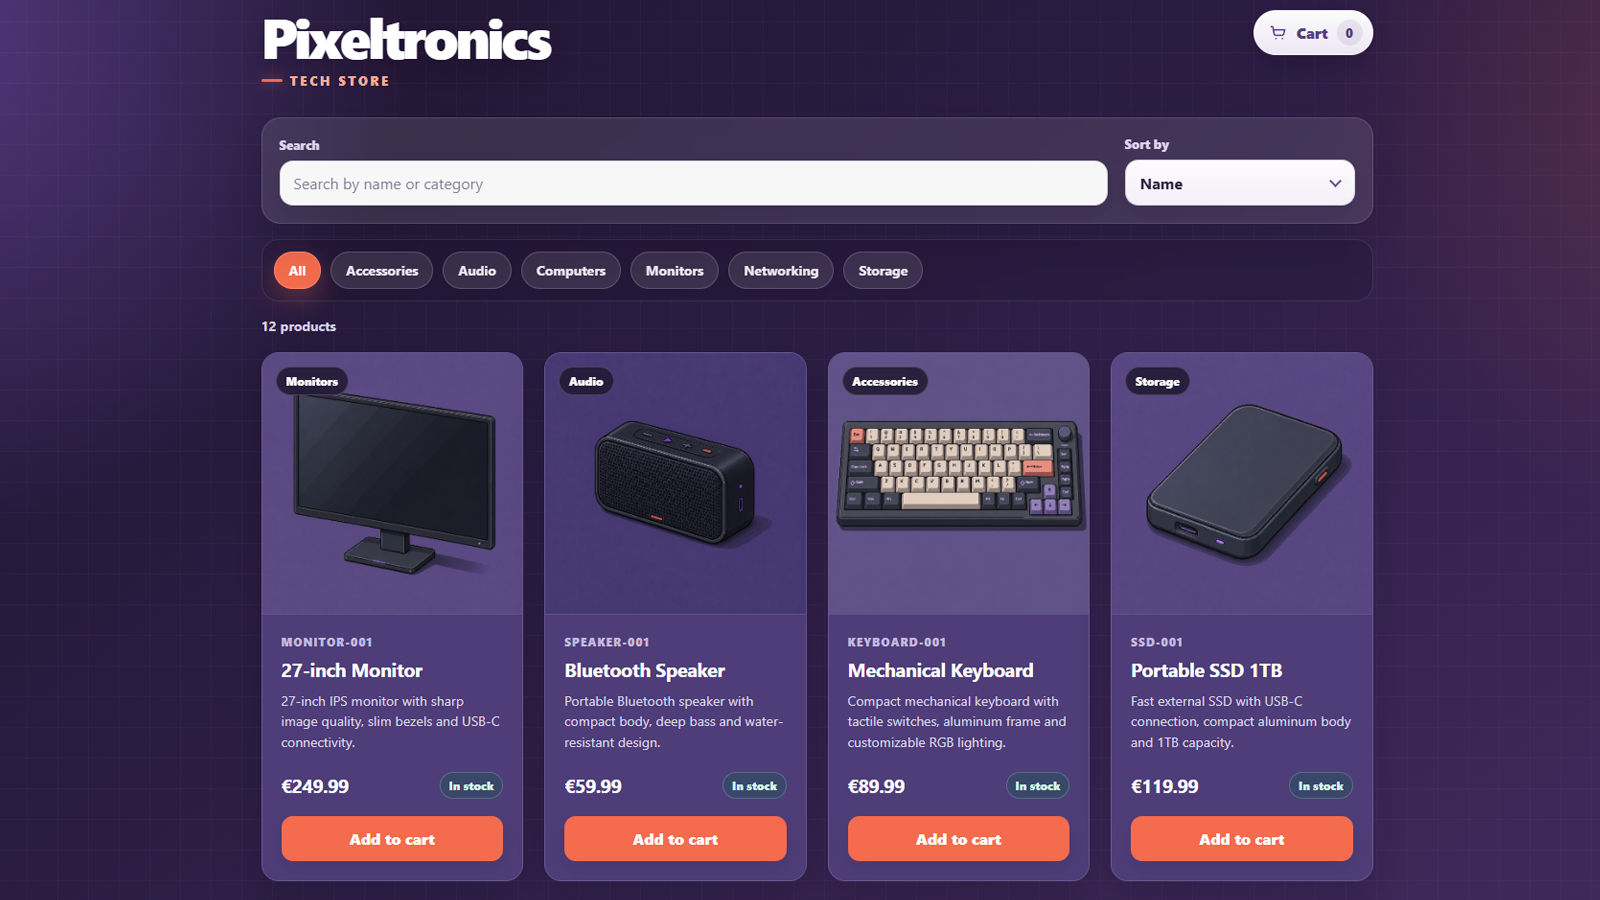
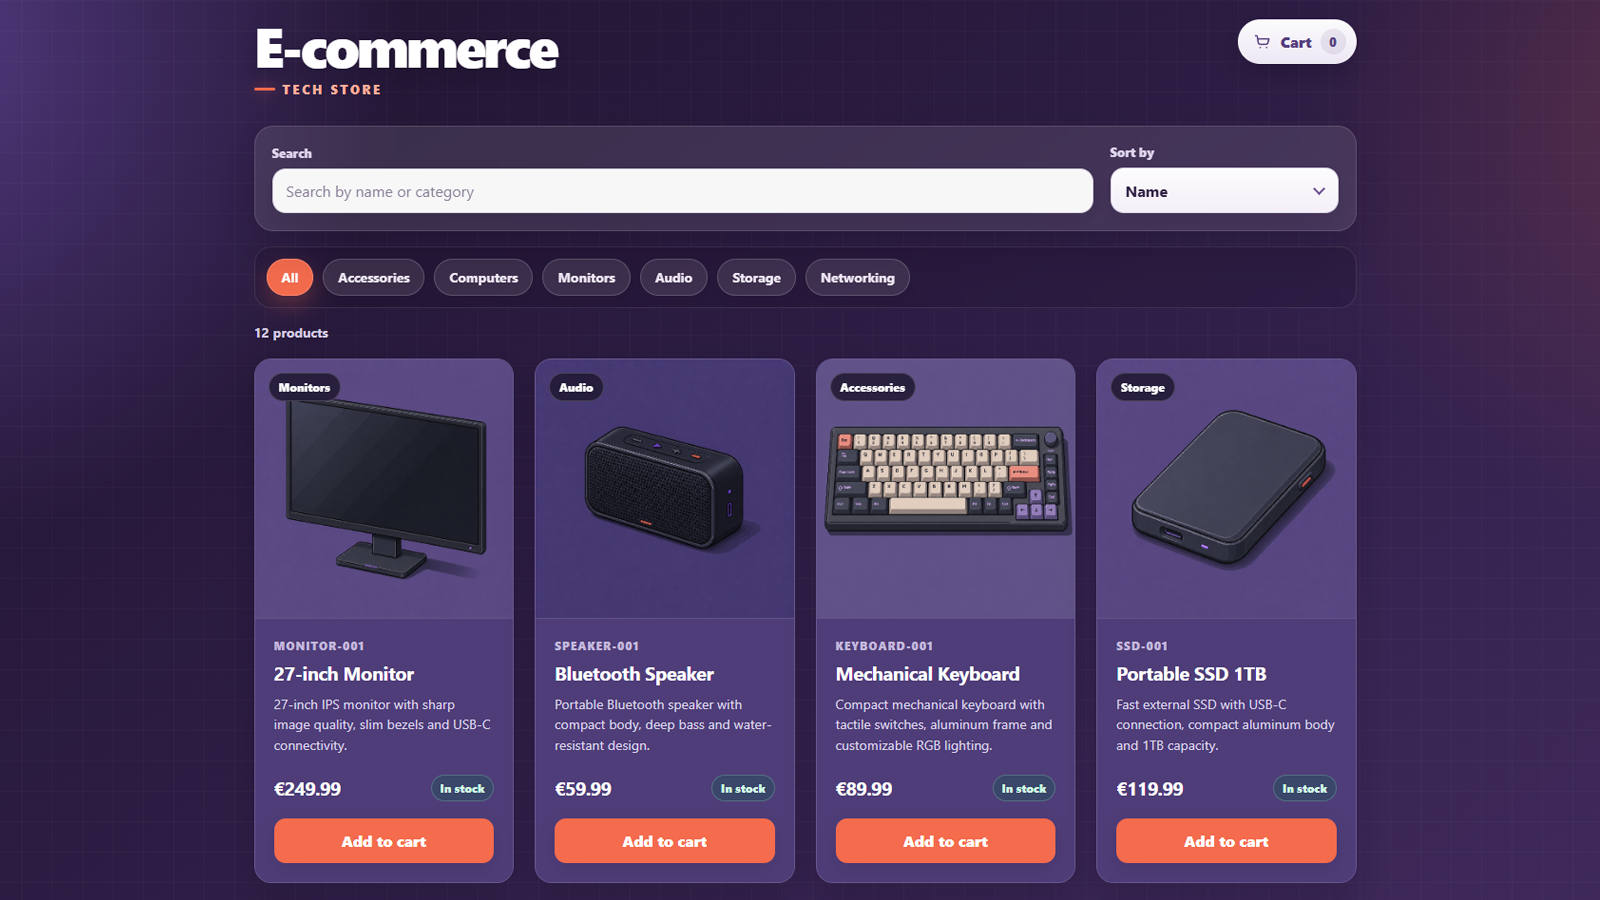
Updated README

Changed region(s): [[0.1562, 0.0, 0.875, 0.9956], [0.75, 0.0, 0.875, 0.0933]]

diff --git a/README.md b/README.md
@@ -2,7 +2,9 @@
 
 Full-stack e-commerce portfolio project built with **Angular 21**, **Spring Boot 4.1**, **Java 21** and **PostgreSQL**.
 
-This e-commerce implements a complete catalog-to-order flow: products are loaded from a REST API, the cart is persisted in the browser, checkout data is validated, and orders are created transactionally in PostgreSQL while product stock is updated.
+The application implements a complete catalog-to-order flow: product browsing, search and filtering, a persistent shopping cart, validated checkout, transactional order creation and stock updates.
+
+[View Live Demo](https://ecommerce-pablov.vercel.app/products)
 
 ![Product catalog](docs/screenshots/pixeltronics-1.png)
 
@@ -10,7 +12,8 @@ This e-commerce implements a complete catalog-to-order flow: products are loaded
 
 ### Product catalog
 
-- Product data loaded from the Spring Boot API.
+- Product catalog loaded from the Spring Boot REST API in full-stack mode.
+- Seeded product catalog available in frontend demo mode.
 - Search by product name or category.
 - Category filtering.
 - Custom sorting by name and price.
@@ -24,7 +27,7 @@ This e-commerce implements a complete catalog-to-order flow: products are loaded
 - Remove individual items or clear the cart.
 - Prevent quantities from exceeding available stock.
 - Persist cart state in `localStorage`.
-- Synchronize persisted cart data with the current backend catalog.
+- Synchronize persisted cart data with the current product catalog.
 
 ### Checkout
 
@@ -32,11 +35,11 @@ This e-commerce implements a complete catalog-to-order flow: products are loaded
 - User-friendly validation for name, email and shipping address.
 - Inline validation messages and accessible invalid-field states.
 - Order summary with quantities and calculated total.
-- Error feedback when the backend cannot create the order.
+- Error feedback when an order cannot be created.
 
 ### Order processing
 
-`POST /api/orders` performs the complete order workflow inside a transaction:
+In full-stack mode, `POST /api/orders` performs the complete order workflow inside a database transaction:
 
 1. Validates the request body.
 2. Loads and validates every requested product.
@@ -47,12 +50,21 @@ This e-commerce implements a complete catalog-to-order flow: products are loaded
 7. Decreases product stock.
 8. Returns the created order with HTTP `201 Created`.
 
+Frontend demo mode reproduces the same user-facing flow locally:
+
+1. Validates the requested products and quantities.
+2. Checks the locally available stock.
+3. Calculates line totals and the final order total.
+4. Generates an order number and confirmation.
+5. Decreases the locally stored product stock.
+6. Preserves demo data in browser storage.
+
 ### API documentation
 
 - OpenAPI specification generated with Springdoc.
 - Interactive Swagger UI.
 - Documented request schemas, response schemas and HTTP status codes.
-- Executable API requests from the browser.
+- Executable API requests from the browser while the backend is running.
 
 ## Application Flow
 
@@ -90,6 +102,9 @@ This e-commerce implements a complete catalog-to-order flow: products are loaded
 - Angular Router
 - SCSS
 - Browser `localStorage`
+- Browser `sessionStorage`
+- Environment-based execution modes
+- Vercel
 
 ### Backend
 
@@ -114,6 +129,61 @@ This e-commerce implements a complete catalog-to-order flow: products are loaded
 - Docker Compose
 - GitHub Actions
 - npm
+
+## Execution Modes
+
+The frontend supports two execution modes.
+
+### Full-stack mode
+
+The standard local development configuration connects Angular to the Spring Boot API and PostgreSQL database.
+
+```text
+Angular application
+        |
+        | HTTP / JSON
+        v
+Spring Boot REST API
+        |
+        | JPA / Hibernate
+        v
+PostgreSQL
+```
+
+This mode provides:
+
+- Real REST API communication.
+- Database-backed product and order persistence.
+- Transactional order creation.
+- Relational order and order-item storage.
+- Persistent stock updates.
+- Swagger and OpenAPI documentation.
+
+### Frontend demo mode
+
+The public Vercel deployment uses the Angular frontend without requiring a permanently hosted Java backend.
+
+```text
+Angular application
+        |
+        v
+DemoStore
+        |
+        v
+localStorage / sessionStorage
+```
+
+This mode provides:
+
+- Seeded product and category data.
+- Product search, filtering and sorting.
+- Persistent shopping cart.
+- Stock validation.
+- Local stock updates.
+- Checkout validation.
+- Order total calculation.
+- Order-number generation.
+- Order confirmation after navigation or page reload.
 
 ## Architecture
 
@@ -140,24 +210,13 @@ checkout/
 order-confirmation/
 ```
 
-State is handled through injectable signal-based stores:
+State and data access are separated into focused services:
 
 - `CartStore` manages cart state and `localStorage` persistence.
-- `OrderStore` keeps the latest order response available for the confirmation route.
-
-High-level flow:
-
-```text
-Angular application
-        |
-        | HTTP / JSON
-        v
-Spring Boot REST API
-        |
-        | JPA / Hibernate
-        v
-PostgreSQL
-```
+- `OrderStore` keeps the latest order response available and temporarily persists it in `sessionStorage`.
+- `CatalogApi` loads products and categories from either the backend or the demo store.
+- `OrderApi` creates orders through either the REST API or the demo store.
+- `DemoStore` reproduces catalog, stock and order behavior for the frontend-only deployment.
 
 Additional architecture notes are available in [`docs/architecture.md`](docs/architecture.md).
 
@@ -266,9 +325,29 @@ ecommerce-angular-springboot/
 │   ├── public/
 │   │   └── assets/products/
 │   ├── src/
-│   │   └── app/features/catalog/
+│   │   ├── app/
+│   │   │   └── features/catalog/
+│   │   │       ├── data/
+│   │   │       │   ├── catalog-api.ts
+│   │   │       │   ├── demo-data.ts
+│   │   │       │   ├── demo-store.ts
+│   │   │       │   ├── order-api.ts
+│   │   │       │   └── order-store.ts
+│   │   │       ├── models/
+│   │   │       │   └── order.ts
+│   │   │       ├── add-to-cart-confirmation/
+│   │   │       ├── cart-drawer/
+│   │   │       ├── checkout/
+│   │   │       ├── order-confirmation/
+│   │   │       ├── product-card/
+│   │   │       └── product-catalog/
+│   │   └── environments/
+│   │       ├── environment.ts
+│   │       └── environment.development.ts
+│   ├── angular.json
 │   ├── package.json
-│   └── package-lock.json
+│   ├── package-lock.json
+│   └── vercel.json
 ├── docs/
 │   ├── architecture.md
 │   └── screenshots/
@@ -285,7 +364,7 @@ ecommerce-angular-springboot/
 - npm
 - Docker Desktop
 
-### 1. Start the infrastructure
+### 1. Start PostgreSQL
 
 From the project root:
 
@@ -334,7 +413,7 @@ The product seeder loads the catalog from:
 backend/src/main/resources/seed/products.json
 ```
 
-### 3. Start the frontend
+### 3. Start the frontend in full-stack mode
 
 In another terminal:
 
@@ -350,12 +429,44 @@ Frontend:
 http://localhost:4200
 ```
 
+In this mode, Angular communicates with:
+
+```text
+http://localhost:8081/api
+```
+
 Main routes:
 
 ```text
 /products
 /checkout
 /order-confirmation
+```
+
+### 4. Start the frontend in demo mode
+
+The frontend-only mode can be executed without starting Spring Boot or PostgreSQL:
+
+```powershell
+cd frontend
+npm ci
+npm run start:demo
+```
+
+Frontend:
+
+```text
+http://localhost:4200
+```
+
+The demo stores product stock in `localStorage` and the latest order confirmation in `sessionStorage`.
+
+To reset the local demo data, run this in the browser console:
+
+```javascript
+localStorage.removeItem('pixeltronics-demo-products-v1');
+sessionStorage.removeItem('pixeltronics-last-order');
+location.reload();
 ```
 
 ## Testing
@@ -388,13 +499,40 @@ npm ci
 npm run build
 ```
 
+The production build is generated in:
+
+```text
+frontend/dist/frontend/browser
+```
+
+## Deployment
+
+The Angular frontend is deployed on Vercel:
+
+[https://ecommerce-pablov.vercel.app/products](https://ecommerce-pablov.vercel.app/products)
+
+Deployment configuration:
+
+```text
+Application preset: Angular
+Root directory: frontend
+Build command: npm run build
+Output directory: dist/frontend/browser
+```
+
+The SPA rewrite configuration is defined in:
+
+```text
+frontend/vercel.json
+```
+
 ## Continuous Integration
 
 The GitHub Actions workflow runs on pushes and pull requests targeting `main` or `develop`.
 
 It performs two independent jobs:
 
-1. Starts the required backend services and runs the Maven test suite with Java 21.
+1. Starts PostgreSQL and runs the Maven test suite with Java 21.
 2. Installs frontend dependencies with `npm ci` and creates the Angular production build with Node.js 22.
 
 Workflow:
@@ -444,5 +582,7 @@ This project is intentionally scoped as a portfolio e-commerce application focus
 - Automated backend testing.
 - Reproducible local execution.
 - Interactive API documentation.
+- Environment-based frontend execution.
+- Public frontend deployment.
 
-Authentication, administration, payments and a public production deployment are outside the current version's scope.
+Authentication, administration, real payments, invoicing and shipping management are outside the current scope.